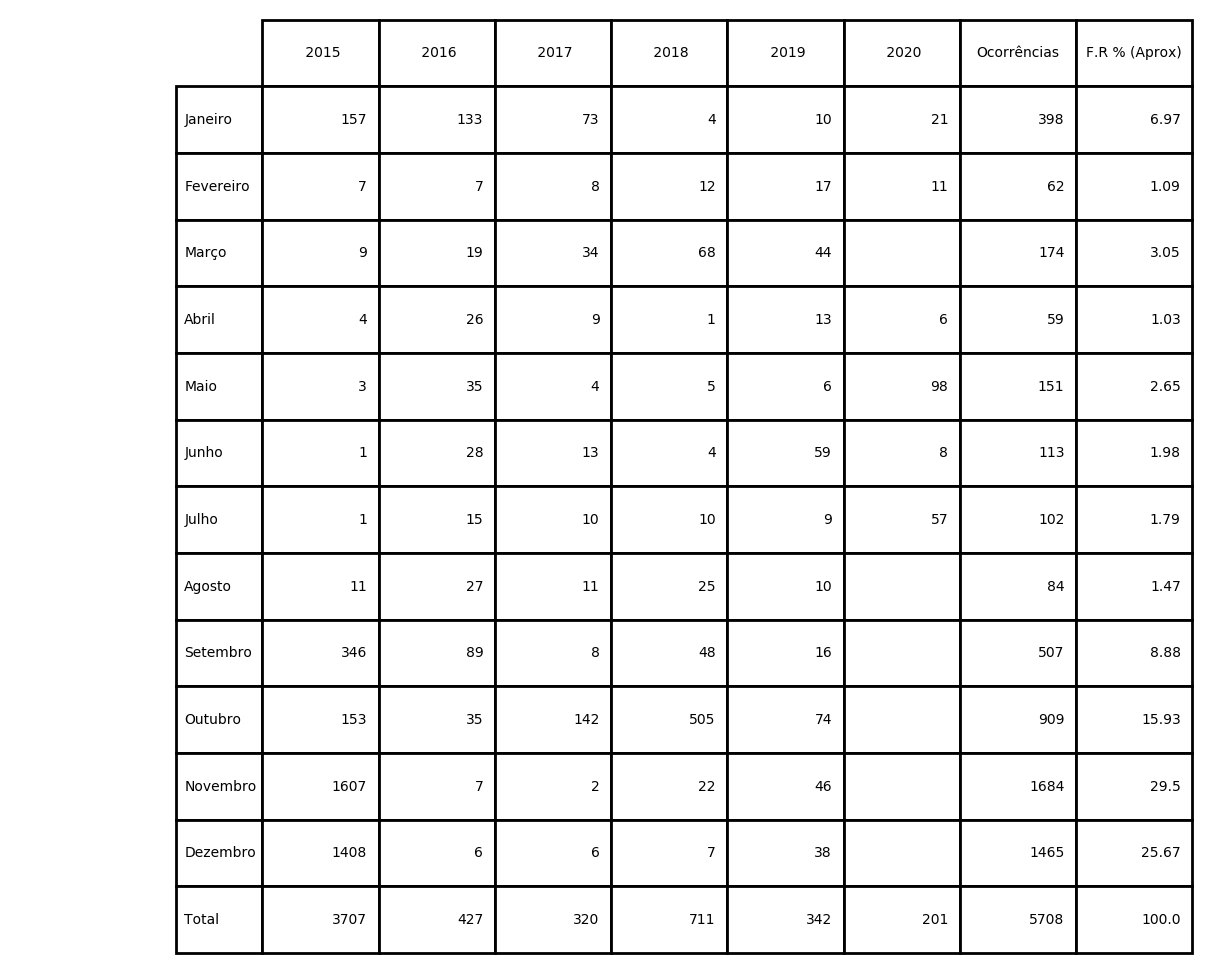
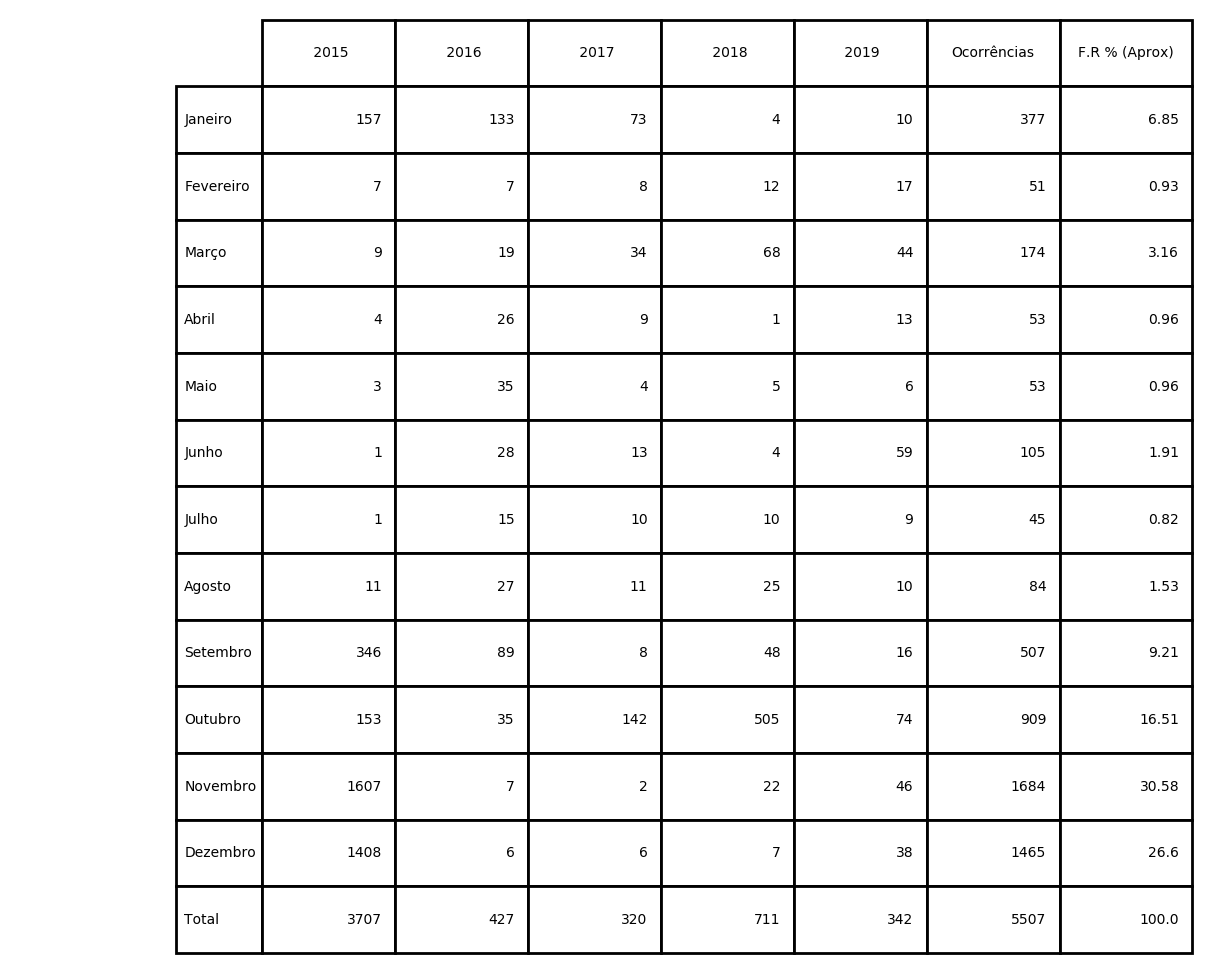
:art: Tirando 2020 da tabela

diff --git a/Focos   2015-2020/plot_table.py b/Focos   2015-2020/plot_table.py
@@ -9,7 +9,7 @@ ax = fig.add_subplot()
 
 months = ["Janeiro", "Fevereiro", "Março", "Abril", "Maio", "Junho", "Julho", "Agosto", "Setembro", "Outubro", "Novembro", "Dezembro", "Total"]
 
-cols = ["{: }".format(i) for i in range(2015, 2021)]
+cols = ["{: }".format(i) for i in range(2015, 2020)]
 cols.append('Ocorrências')
 cols.append("F.R % (Aprox)")
 
@@ -32,12 +32,12 @@ auxMonth = [
 ]
 
 table_data = []
-total = [0, 0, 0, 0, 0, 0, 0]
+total = [0, 0, 0, 0, 0, 0]
 
 for month in range(12):
     
     line = []
-    for year in range(2015, 2021):
+    for year in range(2015, 2020):
         fileName = 'SplitMonth/Focos_' + str(year) + '_' + auxMonth[month] + '.csv'
         if os.path.exists(fileName):
             df = pd.read_csv(fileName)
@@ -51,7 +51,7 @@ for month in range(12):
         if i != NULO:
             soma += i
             
-    total[6] += soma
+    total[5] += soma
     line.append(soma)
             
     table_data.append(line)
@@ -61,7 +61,7 @@ table_data.append(total)
 
 
 for i in range(len(table_data)):
-    porcento = (table_data[i][6] * 100)/table_data[12][6]
+    porcento = (table_data[i][5] * 100)/table_data[12][5]
     table_data[i].append(round(porcento,2))
     
     
